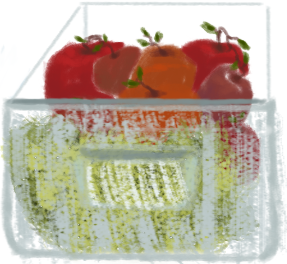
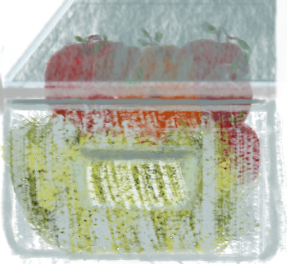
made two project boxes and working out cells positions

diff --git a/src/features/fridge/FridgeOpened.jsx b/src/features/fridge/FridgeOpened.jsx
@@ -27,34 +27,88 @@ const StyledFridgeOpened = styled.div`
 const Inner = styled.div`
   display: grid;
   grid-template-columns: repeat(2, 1fr);
-  grid-template-rows: repeat(4, 1fr);
+  grid-template-rows: repeat(8, 1fr);
 
   width: 65%;
   height: 70vh;
   margin-bottom: 4rem;
 
   .box1 {
+    grid-row: 1 / 3;
     background-color: purple;
-    width: 100%;
   }
   .box2 {
+    grid-row: 1 / 3;
+    grid-column: 2 / -1;
     background-color: orange;
   }
   .box3 {
-    grid-column: 1 / -1;
+    grid-row: 3 / 5;
+    grid-column: 1 / 2;
     background-color: red;
   }
   .box4 {
+    grid-row: 3 / 5;
+    grid-column: 2 / -1;
     background-color: blue;
   }
-  .box5 {
-    background-color: green;
-  }
   .box6 {
-    background-color: pink;
+    grid-row: 6 / -1;
+
+    background-image: url("/ящики/ящик-помидоры.png");
+    background-size: 100% 90%;
+    background-position: bottom;
+    background-repeat: no-repeat;
+    cursor: pointer;
+
+    &:hover {
+      background-image: url("/ящики/ящик-помидоры-безкр.png");
+      transform: translateY(1.5rem);
+    }
   }
   .box7 {
-    background-color: black;
+    grid-row: 6 / -1;
+    grid-column: -2 / -1;
+    background-image: url("/ящики/ящик-кабачки.png");
+    background-size: 100% 95%;
+    background-position: bottom;
+    background-repeat: no-repeat;
+    cursor: pointer;
+
+    &:hover {
+      background-image: url("/ящики/ящик-кабачки-безкр.png");
+      transform: translateY(1.5rem);
+    }
+  }
+`;
+
+const Container = styled.div`
+  position: relative;
+  display: flex;
+  justify-content: center;
+  align-items: flex-end;
+  height: 100%;
+`;
+
+const Sticker = styled.img`
+  width: 8rem;
+  height: 7rem;
+  margin-bottom: 1.1rem;
+`;
+
+const ProjectName = styled.span`
+  position: absolute;
+  font-size: 1.5rem;
+
+  &#good-soup {
+    bottom: 16%;
+    left: 37%;
+  }
+
+  &#tic-tac-toe {
+    bottom: 20%;
+    left: 27%;
+    transform: rotate(30deg);
   }
 `;
 
@@ -67,8 +121,20 @@ function FridgeOpened({ isOpen }) {
         <div className="box3">&nbsp;</div>
         <div className="box4">&nbsp;</div>
         <div className="box5">&nbsp;</div>
-        <div className="box6">&nbsp;</div>
-        <div className="box7">&nbsp;</div>
+        <div className="box6">
+          <Container>
+            <Sticker src="стикер.png" />
+            <ProjectName id="good-soup">
+              Good <br /> Soup
+            </ProjectName>
+          </Container>
+        </div>
+        <div className="box7">
+          <Container>
+            <Sticker src="стикер.png" />
+            <ProjectName id="tic-tac-toe">Tic tac toe</ProjectName>
+          </Container>
+        </div>
       </Inner>
     </StyledFridgeOpened>
   );
